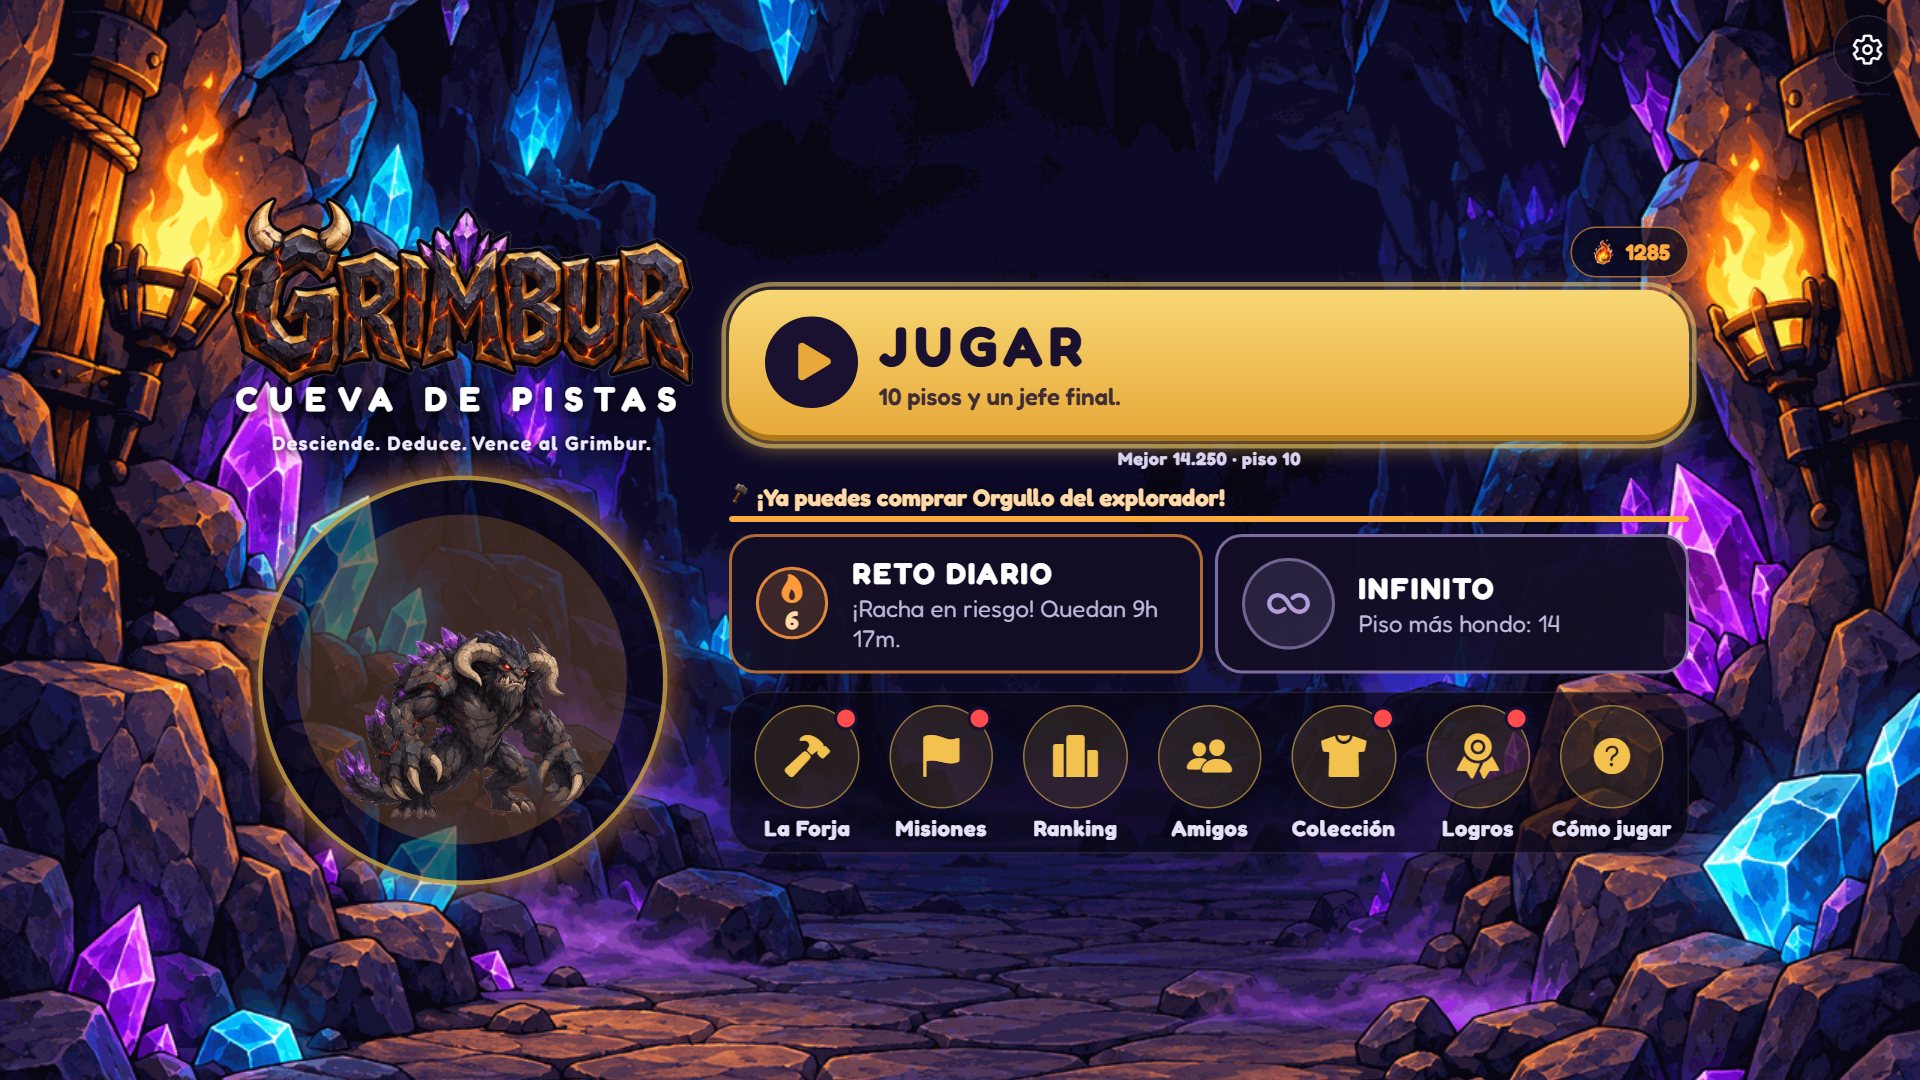
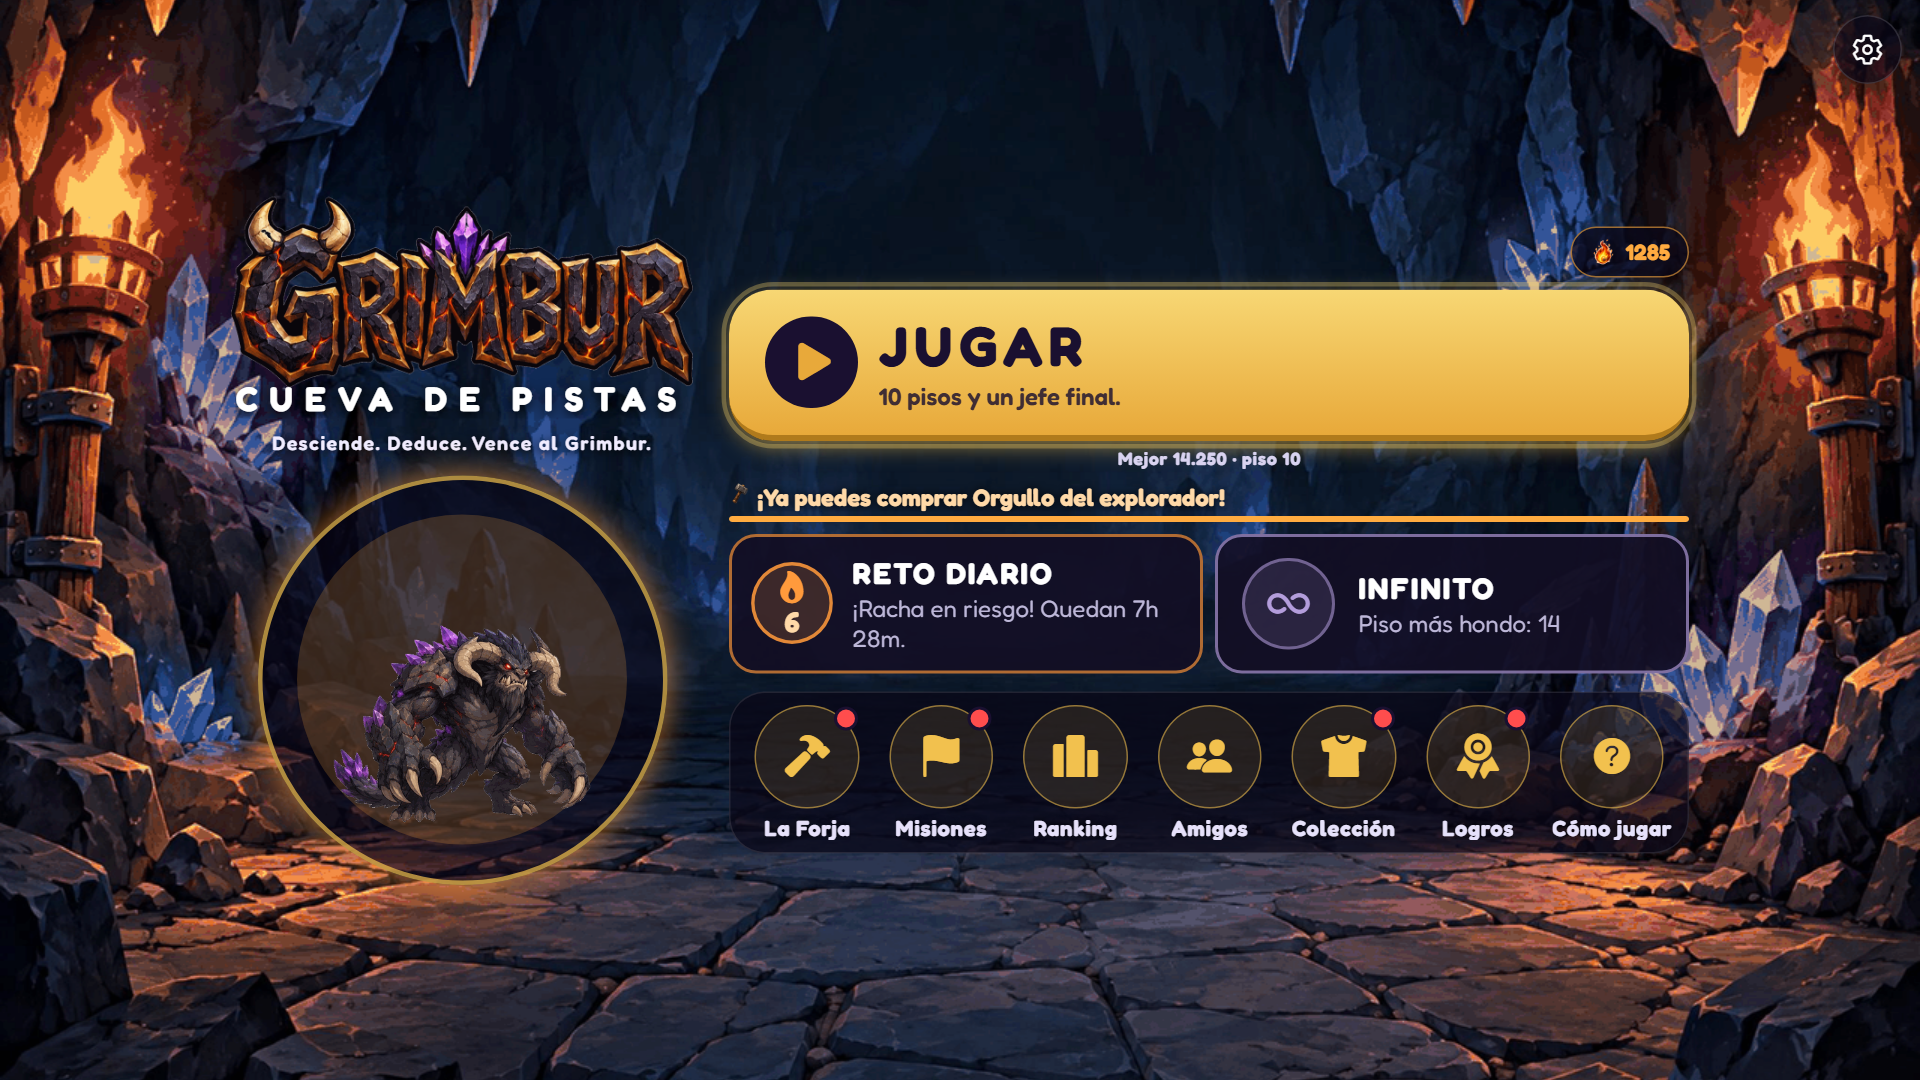
art: Grimbur glyph from the new emblem, store screenshots with the new heroes
Icon_Monster (boss score popups) is cut from the new emblem instead of the old furry
monster. The 16 Play screenshots are retaken with the new heroes and backgrounds;
storeShots.mjs takes SHOT_BASE so it can point at a dev server while the main one
runs in production mode. ASSETS.md lists every new master.

diff --git a/docs/ASSETS.md b/docs/ASSETS.md
@@ -36,8 +36,12 @@ sliceIconGrid, buildAppIcons), so every sprite can be rebuilt from its master.
 | tiles/Danger_Vortex.png, tiles/Trap_Sprung.png, assets/emblem.png | props_v1.png |
 | ui/Clue_Guardian.png, ui/Clue_Vortex.png | clues_v1.png |
 | ui/Logo_Grimbur.png | logo_v1.png |
+| ui/Icon_Monster.png (cut from the emblem) | props_v1.png |
+| backgrounds/Cover_Background.png, Bg_Crystal.jpg, Bg_Magma.jpg, Bg_Lair.jpg | bg_cave_v1.png, bg_crystal_v1.png, bg_magma_v1.png, bg_lair_v1.png |
+| characters/{Hero,Attack,Win,Lose,Icon}_{Cyan,Red,Green,Gold,Pink,Orange}.png | hero_{cyan,red,green,gold,pink,orange}_v1.png |
+| skins/** (every outfit) | recoloured from the heroes above by scripts/generateSkins.py |
 
-Earlier art (heroes and outfits, backgrounds, relics, Forge and tool icons, UI glyphs, items) was generated with
+Earlier art still in use (relics, Forge and tool icons, UI glyphs, items) was generated with
 Figma's AI image generation (2026-10-25/26, owner's Figma Pro plan). Keep the generation records with the release
 evidence.
 
